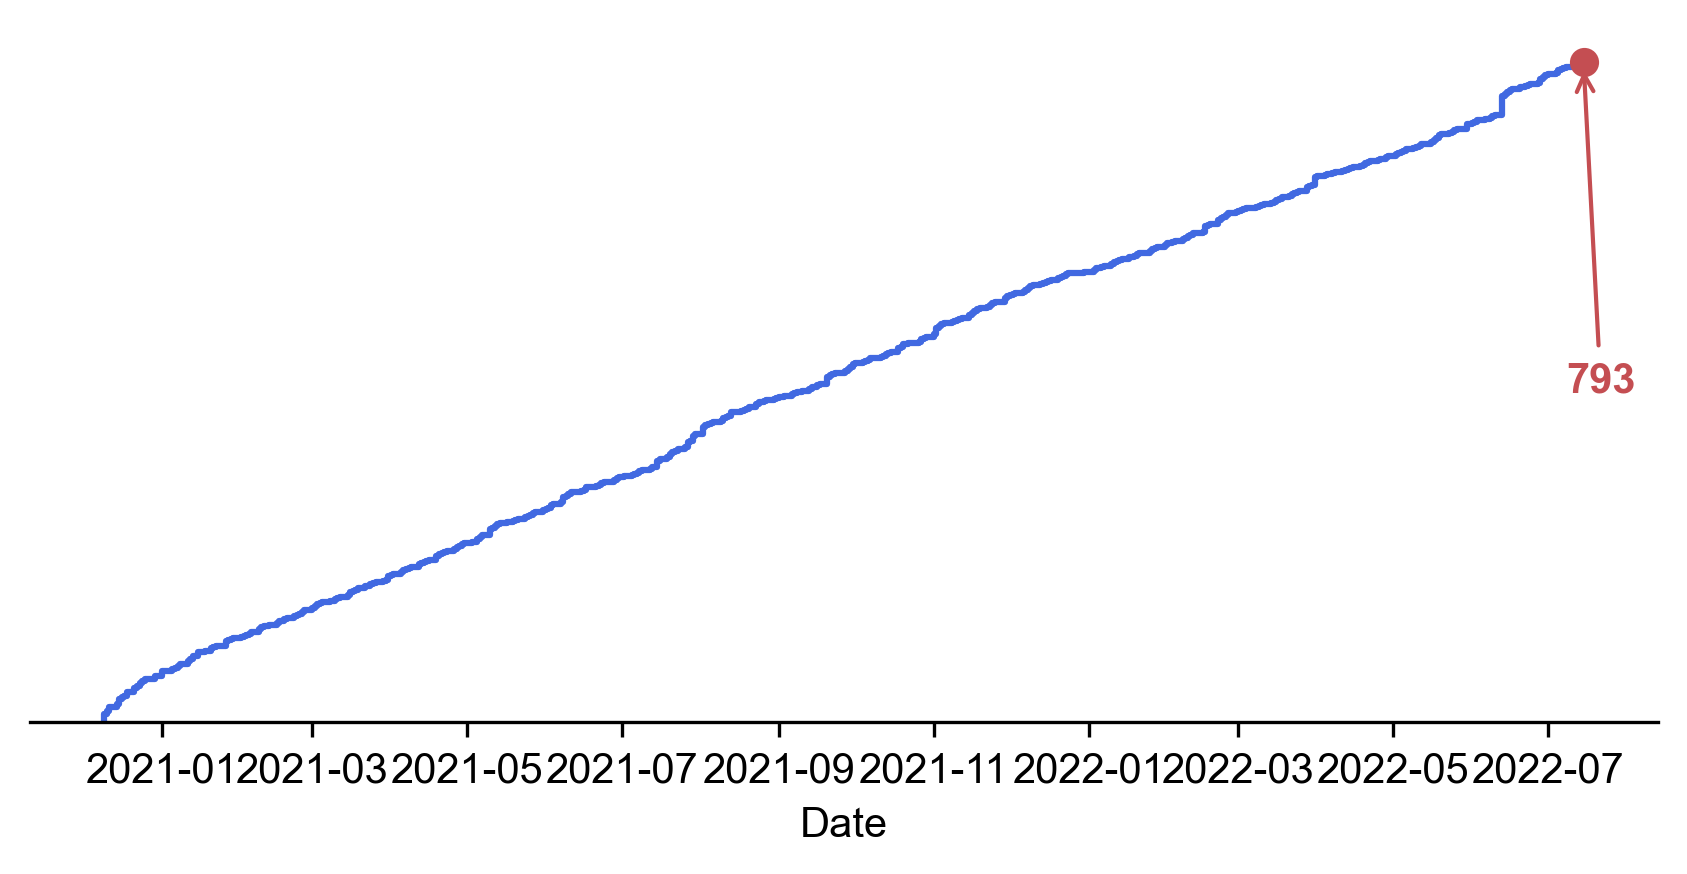
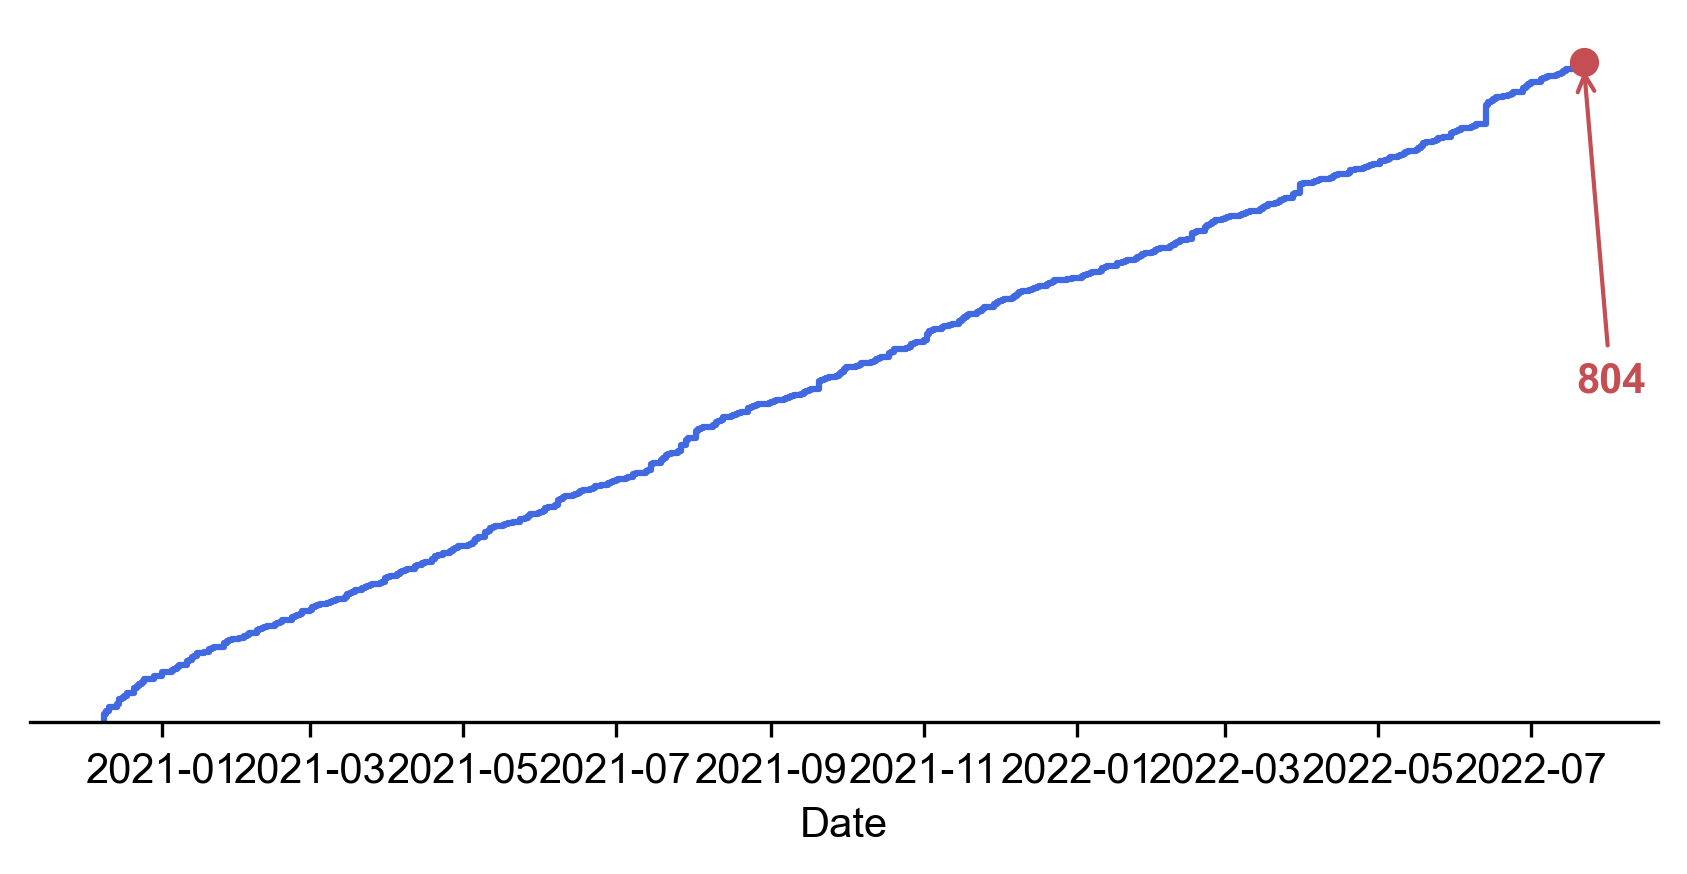
2022-07-22

diff --git a/2022/07/AstroPH-2022-07.md b/2022/07/AstroPH-2022-07.md
@@ -150,5 +150,97 @@
 
 ## 2022-07-18
 
+1. [A Probabilistic Autoencoder for Type Ia Supernovae Spectral Time Series](https://arxiv.org/abs/2207.07645)
 
+   > Machine Learning, Supernovae, Spectrum
+
+   用概率自动编码器，从Ia型超新星的光谱时间序列中学习物理参数。
+
+   <img src="Figures/image-20220718155327493.png" alt="image-20220718155327493" style="zoom:50%;" />
+
+2. [Beyond UVJ: Color Selection of Galaxies in the JWST Era](https://arxiv.org/abs/2207.07170)
+
+   > Galaxy, Color Color Selection
+
+   使用$u_s-g_s$和$g_s-i_s$颜色来选择恒星形成星系和宁静星系。常用的方法是$U-V$和$V-J$颜色来选择，但是在$z\ge3$的位置，这种方法选择出来的样本包含大量的尘埃遮蔽星系和强发射线星系。新方法做了改进，并且可以应用于JWST的星系。
+
+   在$0.5<z<6$的星系中做测试，完备性与`UVJ`方法差不多，但是污染少了两倍。
+
+## 2022-07-19
+
+1. [A first look at the SMACS0723 JWST ERO: spectroscopic redshifts, stellar masses and star-formation histories](https://arxiv.org/abs/2207.08778)
+
+   > JWST, Lensing, Galaxy
+
+   JWST观测的`SMACS J0723.3-7327`透镜中的10个NIRSpec（$\lambda_{obs}=1.8-5.2\mu m$，$R=\lambda/\Delta\lambda=1000$）新测量的星系光谱的分析。
+
+   其中$1<z<3$的五个天体有多条红外帕申线（$n\ge4\rightarrow3$），$5<z<9$的五个天体有光学氧和氢巴尔默线（$n\ge3\rightarrow2$）。
+
+   <img src="Figures/image-20220719130109108.png" alt="image-20220719130109108" style="zoom:50%;" />
+
+   与HST的光度测量结合，分析SED，分析恒星质量、平均恒星年龄、以及恒星形成历史等。
+
+2. [One-loop correction to the enhanced curvature perturbation with local-type non-Gaussianity for the formation of primordial black holes](https://arxiv.org/abs/2207.07668)
+
+   > Cosmology, Dark Matter, PBH
+
+   大学同学孟徳双的文章。原初黑洞`Primordial Black Holes, PBHs`可能是冷暗物质的候选，由曲率扰动的过密区域塌缩形成。在暴涨模型中，增强的曲率扰动是非高斯的，因此对曲率功率谱的高阶`loop`修正是不能忽略的，也会改变PBHs的丰度。这里计算的是曲率功率谱的`one-loop`修正。
+
+3. [Radio detection of an elusive millisecond pulsar in the Globular Cluster NGC 6397](https://arxiv.org/abs/2207.07880)
+
+   > Pulsar
+
+   张蕾的文章，我有参与。讲的是用Parkes在球状星团`NGC 6397B`中探测到一个轨道周期为1.97天、自转周期为5.78ms的毫秒脉冲星双星系统。这个轨道周期是球状星团中双星系统最长的，并且与之前的X射线源的轨道周期一致。
+
+4. [PARSEC V2.0: Stellar tracks and isochrones of low and intermediate mass stars with rotation](https://arxiv.org/abs/2207.08642)
+
+   > Stellar, Age, Isochrone, Software
+
+   [PARSEC](http://stev.oapd.inaf.it/PARSEC/index.html) [v2](http://stev.oapd.inaf.it/YBC/)是一个恒星演化轨迹和等龄线工具，覆盖了恒星质量$0.09-14M_\odot$和金属丰度$Z=0.004-0.017$。
+
+5. [TESS light curves of cataclysmic variables I -- Unknown periods in long-known stars](https://arxiv.org/abs/2207.08203)
+
+   > TESS, Variable
+
+   `Transiting Exoplanet Survey Satellite, TESS`将监测超过200,000颗恒星是否因为凌日导致亮度变化，已于2018年发射。
+
+   灾变变星`CVs`的大量光变细节需要长时且不间断的观测，TESS提供的长达一个月的数据很适合这一目标。这里介绍的是在新星中寻找周期性变化。
+
+## 2022-07-20
+
+1. [A Convolutional Neural Network Approach to Supernova Time-Series Classification](https://arxiv.org/abs/2207.09440)
+
+   > Machine Learning, Supernovae, Classification
+
+   普通卷积神经网络对超新星光变曲线做分类。
+
+   <img src="Figures/image-20220720105221741.png" alt="image-20220720105221741" style="zoom:50%;" />
+
+## 2022-07-21
+
+1. [Linear change and minutes variability of solar wind velocity revealed by FAST](https://arxiv.org/abs/2207.09612)
+
+   > Solar System, Solar Wind
+
+   行星际闪烁`Interplanetary Scintillation, IPS`可以用于研究太阳风和空间天气。这里介绍FAST在2020年9月对IPS的观测，发现太阳风速度随频率线性下降，并且在3-5分钟的时间尺度上会发生变化，意味着背景太阳风缓慢变化。
+
+2. [Do Pulsar and Fast Radio Burst dispersion measures obey Benford's law?](https://arxiv.org/abs/2207.09696)
+
+   > Fast Radio Burst, Math
+
+   `Benford's Law`描述的是实际生活中的数字首位的频率分布，1开头的数字大概占到30%
+   $$
+   P(n)=\log_b(n+1)-\log_b(n)=\log_b\left(\frac{n+1}{n}\right)
+   $$
+   这里做的是脉冲星和FRB的DM值的第一位数字的分布发现不服从`Benford's Law`。
+
+## 2022-07-22
+
+1. [Rest-frame near-infrared sizes of galaxies at cosmic noon: objects in JWST's mirror are smaller than they appeared](https://arxiv.org/abs/2207.10655)
+
+   > JWST, Galaxy, Structure
+
+   研究星系大小在宇宙时间中的演化以测试星系形成模型，但是缺乏深度红外成像限制了$z\ge1$的研究。 这里从JWST的EGS深场成像中测量出1000个$\log M_*/M_\odot\ge9,\ 1.0\le z\le2.5$的星系在$4.4\mu m$的大小，并与$1.5\mu m$下的大小进行对比。发现星系的半光度半径在$4.4\mu m$下比$1.5\mu m$下小8%，这一差异随恒星质量增大或者颜色变红而增加。
+
+## 2022-07-25
 
